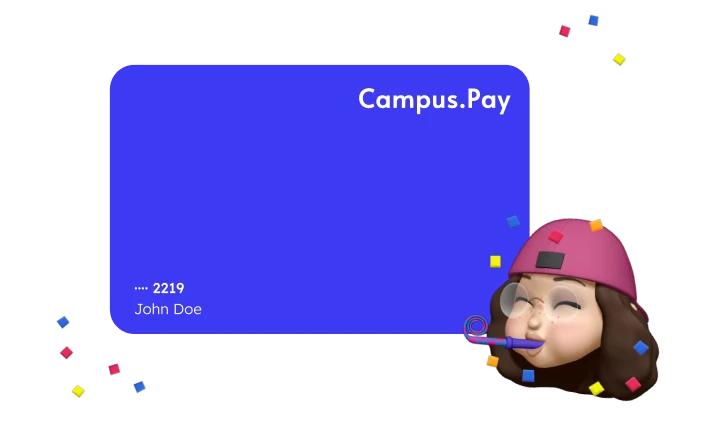
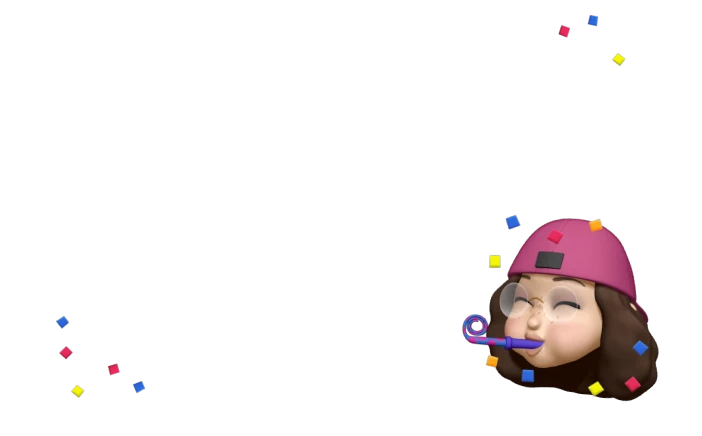
Feat: congratz section with html card

diff --git a/styles.css b/styles.css
@@ -553,6 +553,26 @@ button.disabled {
     padding: 1rem;
 }
 
+#congratz .paynocchio-wallet-card {
+    position: absolute;
+    top: 50%;
+    left: 50%;
+    transform: translate(-50%, -50%);
+    z-index: -1;
+}
+
+#congratz .paynocchio-wallet-card .on_card_embleme img {
+    width: 100px;
+    display: block;
+    margin-left: auto;
+}
+
+#congratz .paynocchio-wallet-card .paynocchio-wallet-card-footer {
+    flex-direction: column;
+    align-items: flex-start;
+    gap: 0.5rem;
+}
+
 .paynocchio-wallet-card.inactive,
 .status-SUSPEND .paynocchio-wallet-card {
     background: #7a839b;
@@ -642,7 +662,6 @@ button.disabled {
     font-weight: 600;
     line-height: 1rem;
     padding: 0;
-
 }
 
 .paynocchio-pay-button-container {
@@ -793,6 +812,10 @@ button.disabled {
 
 .paynocchio-flcenter {
     justify-content: center;
+}
+
+.paynocchio-relative {
+    position: relative;
 }
 
 .paynocchio-fs4 {

diff --git a/amd/src/wallet_activation.js b/amd/src/wallet_activation.js
@@ -35,6 +35,7 @@ export const init = (user_id) => {
             const response = handleWalletActivationClick(user_id);
             spinner.classList.add('active');
             response.then(data => {
+                /*window.console.log(data);*/
                 if(data.success) {
                     spinner.classList.remove('active');
                     message.classList.remove('hidden');
@@ -47,6 +48,7 @@ export const init = (user_id) => {
                         })
                         .catch((error) => displayException(error));*/
                     //window.location.reload();
+
                     document.getElementById('congratz').classList.add('shown');
                     if (document.getElementById('page-payment-gateway-paynocchio-pay')) {
                         document.getElementById('page-payment-gateway-paynocchio-pay').style.overflow = 'hidden';

diff --git a/my_paynocchio_wallet.php b/my_paynocchio_wallet.php
@@ -56,6 +56,7 @@ if($user && $user->useruuid && $user->walletuuid) {
         'cardBg' => $cardBg,
         'logo' => paynocchio_helper::custom_logo(),
         'wallet_activated' => true,
+
     ];
 
     echo $OUTPUT->render_from_template('paygw_paynocchio/paynocchio_wallet_all_in_one_cabinet', $data);
@@ -100,6 +101,7 @@ if($user && $user->useruuid && $user->walletuuid) {
         'brandname' => get_config('paygw_paynocchio', 'brandname'),
         'cardBg' => $cardBg,
         'logo' => paynocchio_helper::custom_logo(),
+        'username' => $USER->firstname . ' ' . $USER->lastname,
     ];
 
     echo $OUTPUT->render_from_template('paygw_paynocchio/paynocchio_wallet_all_in_one_cabinet', $data);

diff --git a/pay.php b/pay.php
@@ -175,6 +175,7 @@ if(paynocchio_helper::has_enrolled($itemid, (int) $USER->id)) {
             'brandname' => get_config('paygw_paynocchio', 'brandname'),
             'itemid' => $itemid,
             'description' => $pagetitle,
+            'username' => $USER->firstname . ' ' . $USER->lastname,
         ];
         echo $OUTPUT->render_from_template('paygw_paynocchio/paynocchio_wallet_all_in_one_payment', $data);
         echo $OUTPUT->render_from_template('paygw_paynocchio/paynocchio_congratz', $data);
